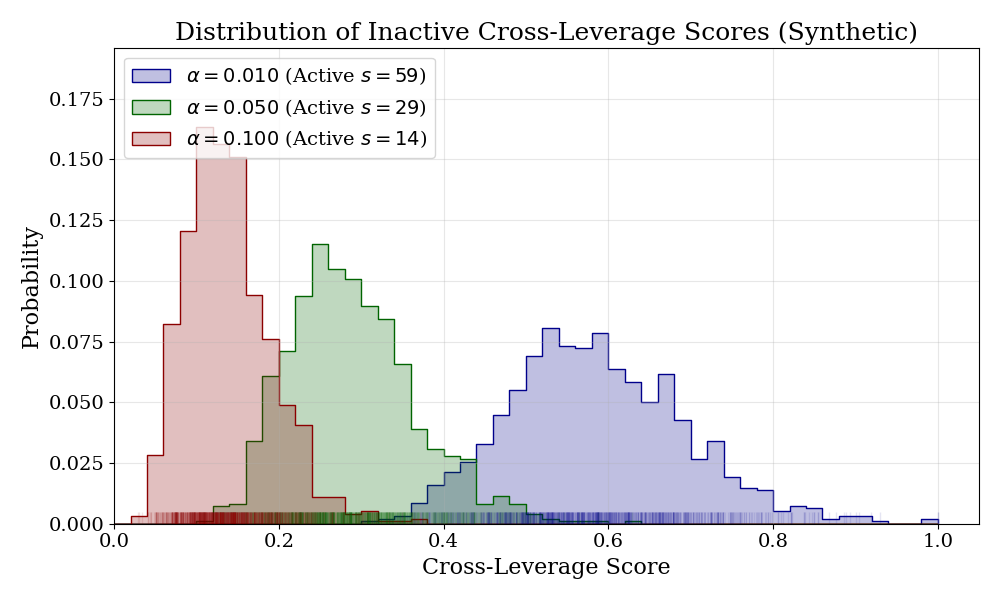
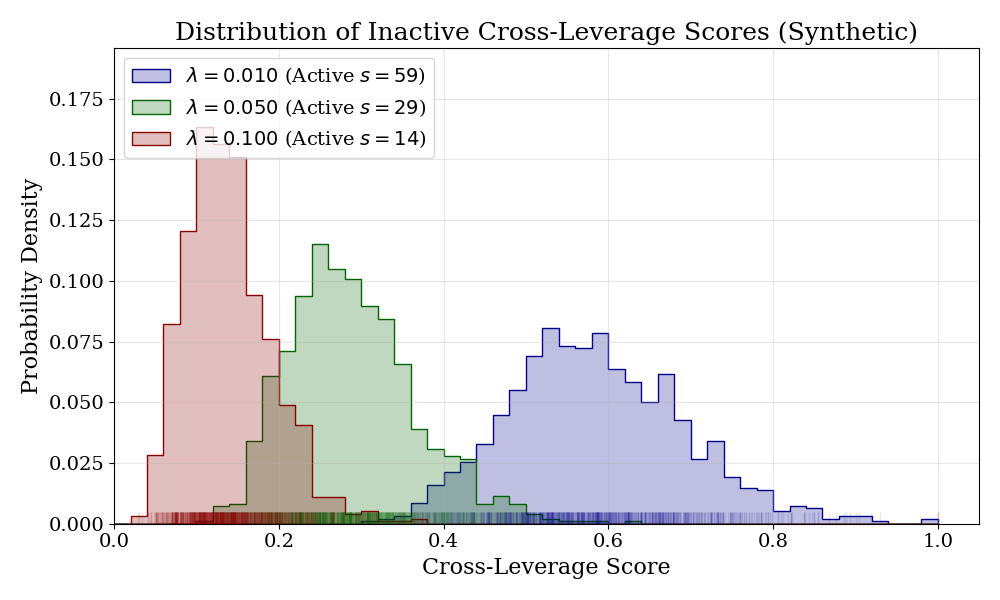
improve cross leverage figure

diff --git a/experiments/hoffman/cross_leverage_diagnostic.py b/experiments/hoffman/cross_leverage_diagnostic.py
@@ -273,7 +273,7 @@ def plot_comparative_distribution(leverage_dict, s_dict, dataset_name):
             fill=True,
             alpha=0.25,
             color=colors[alpha],
-            label=r'$\alpha=%.3f$ (Active $s=%d$)' % (alpha, s_base),
+            label=r'$\lambda=%.3f$ (Active $s=%d$)' % (alpha, s_base),
             ax=ax,
         )
         
@@ -282,7 +282,7 @@ def plot_comparative_distribution(leverage_dict, s_dict, dataset_name):
 
     ax.set_title(f'Distribution of Inactive Cross-Leverage Scores ({dataset_name})')
     ax.set_xlabel('Cross-Leverage Score')
-    ax.set_ylabel('Probability')
+    ax.set_ylabel('Probability Density')
     ax.set_xlim(0, 1.05)
     ax.legend(loc='upper left')
     ax.grid(True, alpha=0.3)